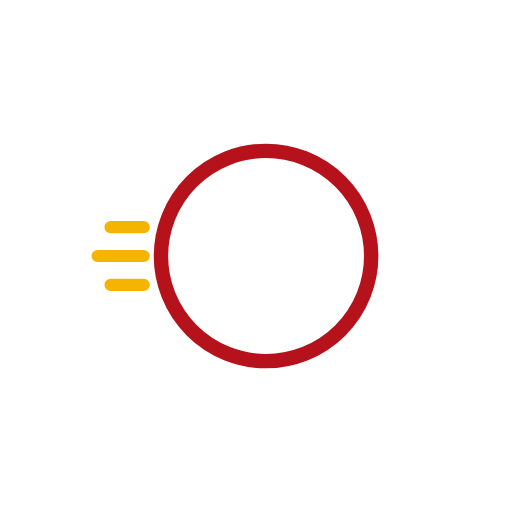
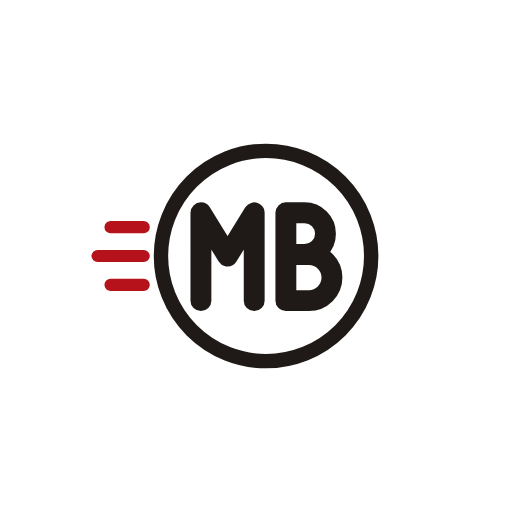
Estafeta: ícone próprio (MB em campo dourado)
Consenso do painel: manter o MB e as linhas de velocidade (linguagem de
logística da marca), mas num campo DOURADO (a cor de entrega/velocidade), para
distinguir do operador (carvão) e do cliente (vermelho + "A"). Anel e letras a
carvão, linhas de velocidade a vermelho (movimento). Mesma geometria já validada.

- gerar.py: entradas do estafeta (icon, adaptive bg/foreground/monochrome,
  splash, favicon) + simbolo-estafeta.png de referência.
- assets do estafeta substituídos; app.json com fundos (adaptive + splash) a
  dourado #F4B400.

tsc 0, jest 8/8.

Claude-Session: https://claude.ai/code/session_012YAn7mGDrLwbXxtn7pEh3R

Changed region(s): [[0.1875, 0.2812, 0.75, 0.7188]]

diff --git a/docs/marca/gerar.py b/docs/marca/gerar.py
@@ -71,11 +71,23 @@ ficheiros['operador/android-icon-monochrome.png'] = (svg(marca(BRANCO, BRANCO, B
 ficheiros['operador/splash-icon.png'] = (svg(marca(anel=VERMELHO), None, 1.0), 1024)
 ficheiros['operador/favicon.png'] = (svg(mo, CARVAO, 0.92), 48)
 
+# Estafeta — Manda Bué logística (campo dourado: a cor da velocidade/entrega)
+# Mesmo MB do operador, mas em fundo dourado, com anel e letras a carvão e as linhas de
+# velocidade a vermelho (movimento). Distingue-se do operador (carvão) e do cliente (vermelho).
+me = marca(anel=CARVAO, letras=CARVAO, linhas=VERMELHO)
+ficheiros['estafeta/icon.png'] = (svg(me, DOURADO, 0.92), 1024)
+ficheiros['estafeta/android-icon-background.png'] = (svg('', DOURADO), 512)
+ficheiros['estafeta/android-icon-foreground.png'] = (svg(me, None, 0.72), 512)
+ficheiros['estafeta/android-icon-monochrome.png'] = (svg(marca(BRANCO, BRANCO, BRANCO), None, 0.72), 432)
+ficheiros['estafeta/splash-icon.png'] = (svg(marca(anel=CARVAO, letras=CARVAO, linhas=VERMELHO), None, 1.0), 1024)
+ficheiros['estafeta/favicon.png'] = (svg(me, DOURADO, 0.92), 48)
+
 # Peças de marca (docs)
 ficheiros['marca/logotipo.png'] = (logotipo_alexandra(), None)
 ficheiros['marca/logotipo-fundo-claro.png'] = (logotipo_alexandra('#FFFFFF'), None)
 ficheiros['marca/simbolo.png'] = (svg(marca_alexandra(), VERMELHO, 0.92), 1024)
 ficheiros['marca/simbolo-operador.png'] = (svg(marca(anel=VERMELHO), CARVAO, 0.92), 1024)
+ficheiros['marca/simbolo-estafeta.png'] = (svg(marca(anel=CARVAO, letras=CARVAO, linhas=VERMELHO), DOURADO, 0.92), 1024)
 
 import json, os
 os.makedirs('svg', exist_ok=True)
